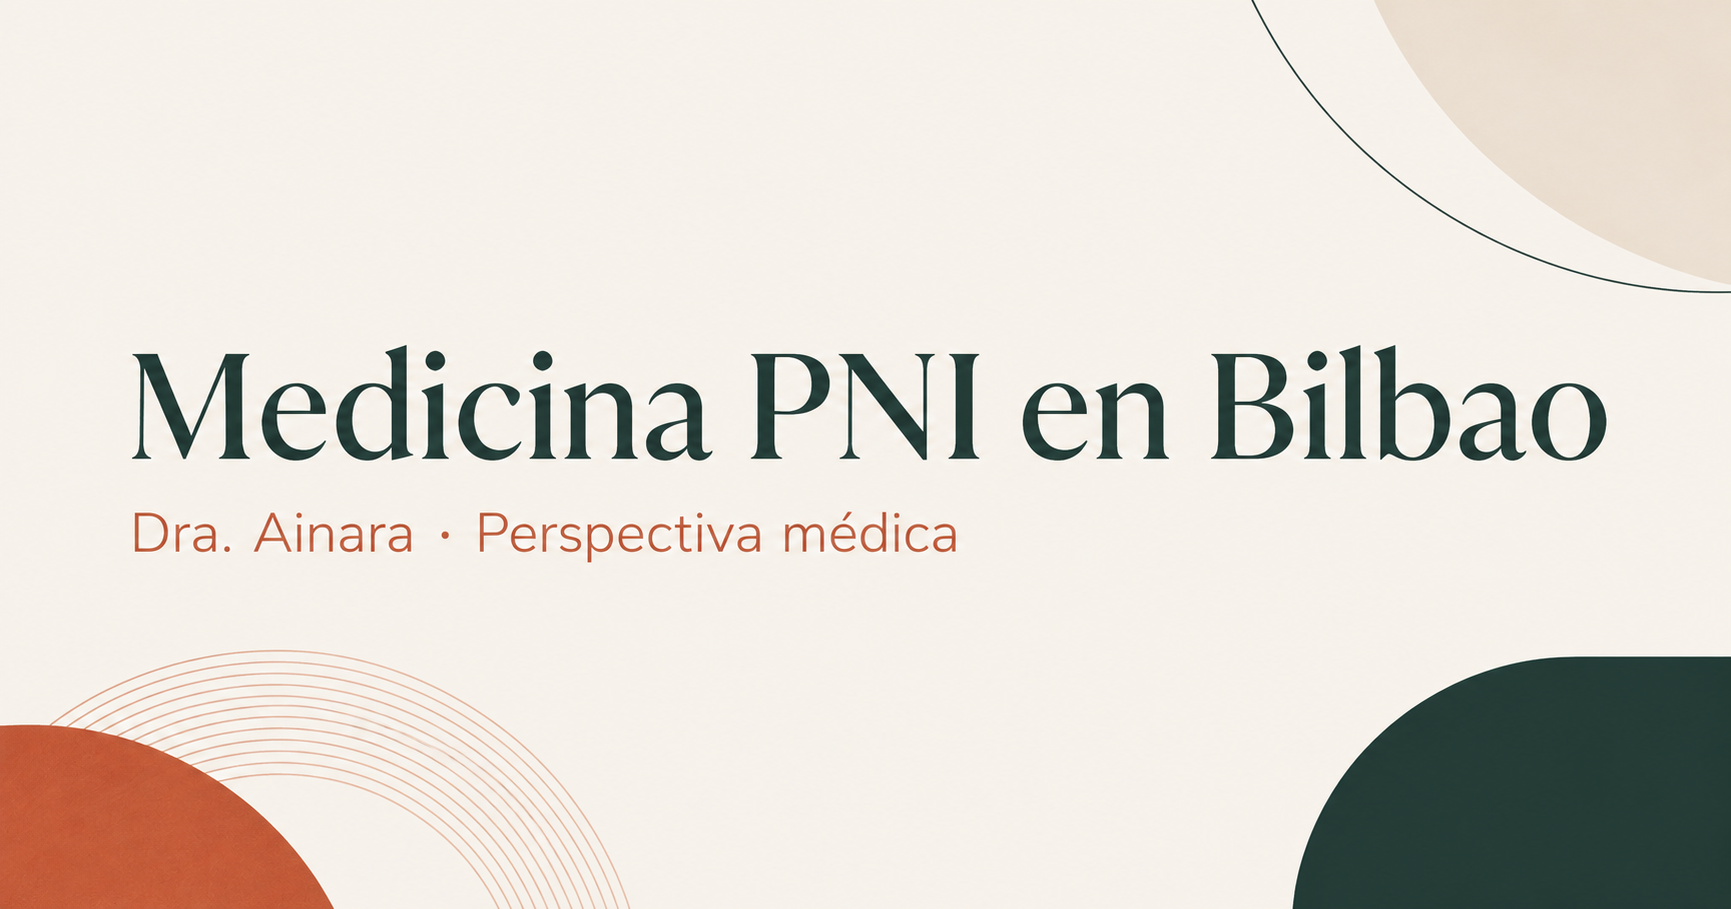
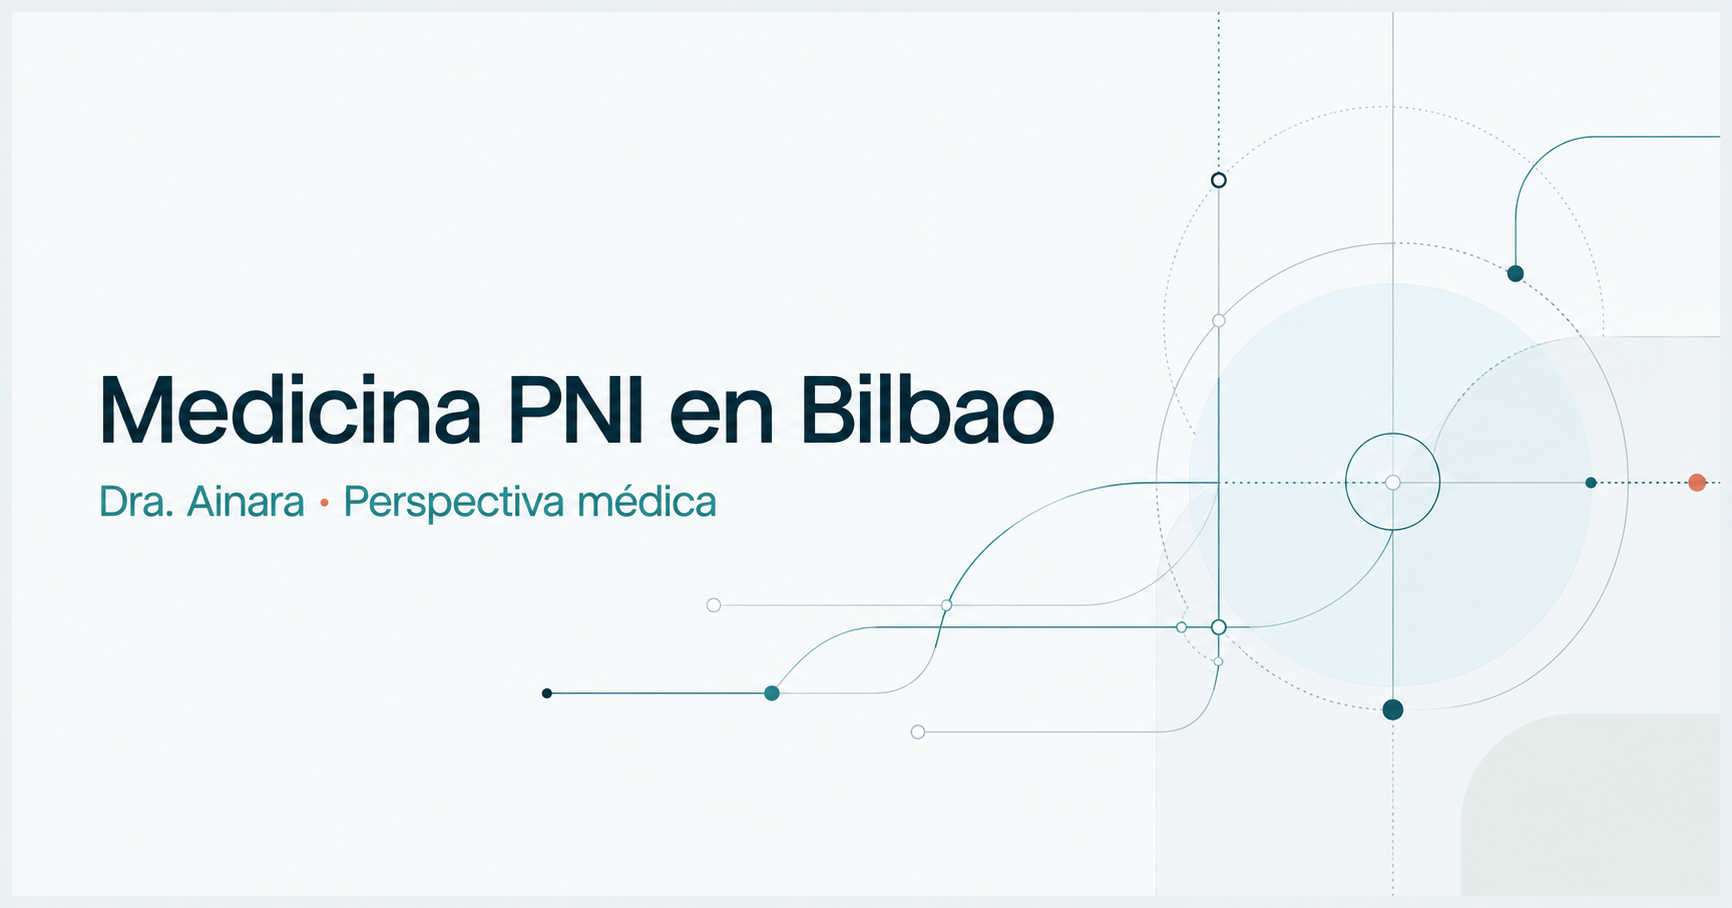
Refresh site with clinical visual identity

diff --git a/src/styles/global.css b/src/styles/global.css
@@ -1,8 +1,20 @@
-@import url('https://fonts.googleapis.com/css2?family=DM+Sans:wght@400;500;600&family=Newsreader:opsz,wght@6..72,400;6..72,500&display=swap');
-:root{--ink:#18342f;--ink-soft:#52635e;--paper:#f4f1eb;--white:#fff;--accent:#b95f46;--line:#d8d6ce;--mint:#dce8df;--max:1180px;--serif:"Newsreader",Georgia,serif;--sans:"DM Sans",Arial,sans-serif}
+@import url('https://fonts.googleapis.com/css2?family=Inter:wght@400;500;600&family=Manrope:wght@500;600;700&display=swap');
+:root{--ink:#183039;--ink-soft:#526971;--paper:#f8fafa;--white:#fff;--accent:#c96f5b;--line:#ccdcdf;--mint:#e7f1f3;--petrol:#153b4a;--teal:#28737a;--sage:#dde8e4;--max:1180px;--serif:"Manrope",Arial,sans-serif;--sans:"Inter",Arial,sans-serif}
 *{box-sizing:border-box}html{scroll-behavior:smooth}body{margin:0;background:var(--paper);color:var(--ink);font-family:var(--sans);font-size:16px;line-height:1.65}a{color:inherit}button{font:inherit}.container{width:min(calc(100% - 40px),var(--max));margin-inline:auto}.skip-link{position:fixed;top:10px;left:10px;z-index:1000;transform:translateY(-180%);background:var(--ink);color:#fff;padding:10px 16px}.skip-link:focus{transform:none}.site-header{position:relative;z-index:20;border-bottom:1px solid rgba(24,52,47,.12)}.nav-shell{height:84px;display:flex;align-items:center;justify-content:space-between;gap:32px}.brand{text-decoration:none;display:flex;flex-direction:column;line-height:1}.brand span{font:500 25px/1 var(--serif)}.brand small{font-size:9px;letter-spacing:.2em;text-transform:uppercase;margin-top:7px}.nav-shell nav{display:flex;gap:32px}.nav-shell nav a,.site-footer nav a{text-decoration:none;font-size:14px}.nav-shell nav a:hover{text-decoration:underline;text-underline-offset:5px}.button{border:1px solid var(--ink);background:var(--ink);color:#fff;padding:14px 22px;border-radius:2px;font-weight:600;cursor:pointer;transition:.2s}.button:hover{background:#274d45}.button:focus-visible,a:focus-visible,summary:focus-visible{outline:3px solid var(--accent);outline-offset:3px}.button-small{padding:10px 18px;font-size:14px}.hero{padding:70px 0 76px}.hero-grid{display:grid;grid-template-columns:minmax(0,1.25fr) minmax(320px,.75fr);gap:80px;align-items:center}.eyebrow{text-transform:uppercase;letter-spacing:.18em;font-size:12px;font-weight:600;color:var(--accent);margin:0 0 18px}.hero h1{font:500 clamp(55px,7.2vw,102px)/.92 var(--serif);letter-spacing:-.04em;margin:0;max-width:800px}.hero-lead{font:400 clamp(23px,2.6vw,36px)/1.18 var(--serif);max-width:650px;margin:28px 0 20px}.hero-body{color:var(--ink-soft);max-width:650px}.credentials{display:flex;border-block:1px solid var(--line);margin:34px 0 28px}.credentials>div{padding:17px 24px 17px 0;min-width:0}.credentials>div+div{padding-left:24px;border-left:1px solid var(--line)}.credentials strong,.credentials span{display:block}.credentials strong{font-size:14px}.credentials span{font-size:12px;color:var(--ink-soft)}.button-row{display:flex;align-items:center;gap:25px}.text-link{font-weight:600;font-size:14px;text-decoration:none;border-bottom:1px solid}.location-note{font-size:13px;color:var(--ink-soft);margin:20px 0 0}.location-note span{font-size:8px;color:var(--accent);margin-right:8px}.portrait-placeholder{height:570px;background:var(--mint);position:relative;display:flex;align-items:center;justify-content:center;overflow:hidden}.portrait-placeholder:before,.portrait-placeholder:after{content:"";position:absolute;border:1px solid rgba(24,52,47,.25);border-radius:50%}.portrait-placeholder:before{width:420px;height:420px;top:70px;left:50px}.portrait-placeholder:after{width:260px;height:260px;top:150px;left:130px}.portrait-monogram{font:400 170px/1 var(--serif);opacity:.2}.portrait-placeholder p{position:absolute;bottom:26px;left:28px;text-transform:uppercase;letter-spacing:.14em;font-size:10px}.trust-strip{background:var(--ink);color:#fff;padding:35px 0}.trust-grid{display:grid;grid-template-columns:repeat(3,1fr)}.trust-grid article{position:relative;padding:0 40px}.trust-grid article:first-child{padding-left:0}.trust-grid article+article{border-left:1px solid rgba(255,255,255,.2)}.trust-grid article>span{color:#dba392;font-size:11px}.trust-grid h2{font:500 22px/1.2 var(--serif);margin:4px 0 8px}.trust-grid p{color:#c5d0cd;margin:0;font-size:13px}.section{padding:110px 0}.narrow{max-width:820px}.section h2{font:500 clamp(42px,5vw,70px)/1 var(--serif);letter-spacing:-.025em;margin:0 0 26px}.large-copy{font:400 26px/1.35 var(--serif);color:var(--accent)}.site-footer{background:#e8e4dc;border-top:1px solid var(--line);padding:60px 0 25px}.footer-grid{display:flex;justify-content:space-between;gap:50px}.footer-grid p{color:var(--ink-soft);font-size:14px}.site-footer nav{display:flex;flex-direction:column;gap:8px}.footer-bottom{border-top:1px solid var(--line);margin-top:40px;padding-top:20px;display:flex;justify-content:space-between;color:var(--ink-soft);font-size:11px}
 @media(max-width:800px){.container{width:min(calc(100% - 28px),var(--max))}.nav-shell{height:70px}.nav-shell nav{display:none}.button-small{padding:9px 12px}.hero{padding:42px 0 50px}.hero-grid{grid-template-columns:1fr;gap:40px}.hero h1{font-size:57px}.hero-lead{font-size:26px}.credentials{display:grid;grid-template-columns:1fr 1fr}.credentials>div{padding:14px 12px 14px 0}.credentials>div+div{padding-left:12px}.credentials>div:last-child{grid-column:1/-1;border-left:0;border-top:1px solid var(--line);padding-left:0}.button-row{align-items:flex-start;flex-direction:column;gap:18px}.portrait-placeholder{height:390px}.portrait-placeholder:before{width:310px;height:310px;left:calc(50% - 155px);top:35px}.portrait-placeholder:after{width:200px;height:200px;left:calc(50% - 100px);top:90px}.trust-grid{grid-template-columns:1fr}.trust-grid article,.trust-grid article:first-child{padding:22px 0}.trust-grid article+article{border-left:0;border-top:1px solid rgba(255,255,255,.2)}.section{padding:75px 0}.footer-grid,.footer-bottom{flex-direction:column;gap:20px}}
 @media(prefers-reduced-motion:reduce){html{scroll-behavior:auto}*{transition:none!important}}
 
 .split-section{display:grid;grid-template-columns:.9fr 1.1fr;gap:100px;align-items:start}.split-section h2,.statement h2,.faq h2{font:500 clamp(42px,5vw,70px)/1 var(--serif);letter-spacing:-.025em;margin:0 0 28px}.section-tint{background:#e7ece6}.arrow-link{display:inline-block;margin-top:18px;font-weight:600;text-decoration:none;border-bottom:1px solid;padding-bottom:2px}.section-intro{max-width:700px;color:var(--ink-soft);font-size:18px;margin-bottom:48px}.process-grid{list-style:none;counter-reset:steps;display:grid;grid-template-columns:repeat(3,1fr);padding:0;margin:0;border-top:1px solid var(--line)}.process-grid li{counter-increment:steps;padding:30px 30px 30px 0;min-height:190px;border-bottom:1px solid var(--line)}.process-grid li:not(:nth-child(3n+1)){border-left:1px solid var(--line);padding-left:30px}.process-grid li:before{content:"0" counter(steps);display:block;color:var(--accent);font-size:11px;margin-bottom:18px}.process-grid h3{font:500 23px/1.2 var(--serif);margin:0 0 12px}.process-grid p{font-size:14px;color:var(--ink-soft);margin:0}.doctor-section{padding:110px 0;background:var(--ink);color:#fff}.doctor-grid{display:grid;grid-template-columns:.8fr 1.2fr;gap:100px;align-items:center}.doctor-grid h2{font:500 clamp(48px,6vw,82px)/1 var(--serif);margin:0 0 18px}.doctor-grid p:not(.eyebrow):not(.large-copy){color:#cbd5d2}.doctor-placeholder{aspect-ratio:4/5;background:#d9e3dd;display:grid;place-items:center;color:var(--ink)}.doctor-placeholder span{font:400 170px/1 var(--serif);opacity:.18}.doctor-section .arrow-link{color:#fff}.statement{max-width:820px}.statement>p:not(.eyebrow){font-size:19px;color:var(--ink-soft)}.location-section{padding:100px 0;background:#ddd4c7}.location-grid{display:grid;grid-template-columns:1fr 1fr;gap:80px;align-items:center}.location-grid h2{font:500 clamp(46px,5vw,72px)/1 var(--serif);margin:0 0 25px}.bilbao-mark{height:280px;border:1px solid rgba(24,52,47,.3);display:flex;flex-direction:column;align-items:center;justify-content:center;font:500 clamp(48px,7vw,90px)/1 var(--serif);letter-spacing:.08em}.bilbao-mark span{font:500 10px/1 var(--sans);letter-spacing:.18em;margin-top:18px}.faq{max-width:900px}.faq-list{margin-top:45px;border-top:1px solid var(--line)}details{border-bottom:1px solid var(--line)}summary{cursor:pointer;list-style:none;font:500 21px/1.3 var(--serif);padding:24px 45px 24px 0;position:relative}summary::-webkit-details-marker{display:none}summary:after{content:"+";position:absolute;right:8px;font-family:var(--sans)}details[open] summary:after{content:"−"}.faq-list details p{max-width:720px;color:var(--ink-soft);margin:0;padding:0 40px 25px 0}.final-cta{text-align:center;background:var(--accent);color:#fff;padding:95px 0}.final-cta .eyebrow{color:#fff}.final-cta h2{font:500 clamp(50px,7vw,88px)/1 var(--serif);margin:0 0 18px}.final-cta p{font-size:18px}.final-cta small{display:block;margin-top:18px}.button-light{background:#fff;color:var(--ink);border-color:#fff}.button-light:hover{background:var(--paper)}.home-hero{padding:100px 0 120px;min-height:75vh;display:flex;align-items:center}.home-hero h1{font:500 clamp(78px,12vw,170px)/.9 var(--serif);letter-spacing:-.055em;margin:0}.home-hero>div>p:not(.eyebrow){font:400 clamp(24px,3vw,38px)/1.2 var(--serif);max-width:700px}.home-hero .credentials{max-width:700px}.text-button{border:0;background:transparent;color:var(--ink);font-weight:600;cursor:pointer;padding:14px 0}.inner-hero{padding:105px 0;background:#e7ece6}.inner-hero h1{font:500 clamp(62px,9vw,120px)/.92 var(--serif);letter-spacing:-.045em;margin:0}.inner-lead{font:400 clamp(24px,3vw,38px)/1.25 var(--serif);max-width:730px;margin:30px 0 0}.content-grid{display:grid;grid-template-columns:.7fr 1.3fr;gap:100px}.content-grid .credentials{display:grid;margin:0}.content-grid .credentials>div+div{border-left:0;border-top:1px solid var(--line);padding-left:0}.content-grid article h2,.reading h2,.empty-state h2{font:500 clamp(36px,4vw,58px)/1.05 var(--serif);margin:0 0 25px}.content-grid article>p,.reading p,.reading li{font-size:18px;color:var(--ink-soft)}blockquote{font:400 30px/1.3 var(--serif);border-left:3px solid var(--accent);padding-left:25px;margin:40px 0}.reading{max-width:800px}.reading h2:not(:first-child){margin-top:65px}.reading ul{padding-left:22px;margin-bottom:40px}.process-feature{display:grid;grid-template-columns:repeat(3,1fr)}.process-feature>div{padding:0 35px}.process-feature>div:first-child{padding-left:0}.process-feature>div+div{border-left:1px solid var(--line)}.process-feature span{font-size:11px;color:var(--accent)}.process-feature h2{font:500 34px/1.1 var(--serif)}.process-feature p{color:var(--ink-soft)}.empty-state{max-width:750px;text-align:center}.booking-dialog{width:min(680px,calc(100% - 24px));max-height:calc(100vh - 24px);padding:0;border:0;background:var(--paper);color:var(--ink);box-shadow:0 25px 80px rgba(0,0,0,.25)}.booking-dialog::backdrop{background:rgba(10,30,27,.75)}.booking-head{display:flex;justify-content:space-between;align-items:flex-start;padding:28px 32px 22px;border-bottom:1px solid var(--line)}.booking-head .eyebrow{margin-bottom:5px}.booking-head h2{font:500 36px/1 var(--serif);margin:0}.icon-button{border:0;background:transparent;color:var(--ink);font-size:32px;line-height:1;cursor:pointer}.demo-notice{margin:24px 32px 0;padding:12px 15px;background:#f1dfd8;font-size:13px}.demo-notice strong{margin-right:8px}.booking-form{padding:20px 32px 32px}.booking-form fieldset{border:0;padding:0;margin:0 0 24px}.booking-form legend{font-weight:600}.field-help{font-size:13px;color:var(--ink-soft);margin:3px 0 12px}.date-options,.slot-options{display:grid;gap:10px}.date-options{grid-template-columns:repeat(3,1fr)}.slot-options{grid-template-columns:repeat(4,1fr)}.date-options input,.slot-options input{position:absolute;opacity:0}.date-options span,.slot-options span{display:flex;border:1px solid var(--line);cursor:pointer;align-items:center;justify-content:center}.date-options span{min-height:105px;flex-direction:column}.date-options small{font-size:10px;letter-spacing:.1em}.date-options strong{font:500 32px/1.2 var(--serif)}.date-options em{font-size:11px;font-style:normal}.slot-options span{height:48px}.date-options input:checked+span,.slot-options input:checked+span{border:2px solid var(--ink);background:var(--mint)}.date-options input:focus-visible+span,.slot-options input:focus-visible+span{outline:3px solid var(--accent);outline-offset:2px}.booking-continue{width:100%}.booking-continue:disabled{opacity:.45;cursor:not-allowed}.booking-result{padding:45px 32px 50px;text-align:center}.booking-result h3{font:500 38px/1.1 var(--serif);margin:0 0 15px}.mobile-booking{display:none;position:fixed;z-index:18;bottom:12px;left:14px;right:14px;width:calc(100% - 28px);border:0;background:var(--ink);color:#fff;padding:14px;font-weight:600;box-shadow:0 8px 25px rgba(0,0,0,.2)}
 @media(max-width:800px){.split-section,.doctor-grid,.location-grid,.content-grid{grid-template-columns:1fr;gap:35px}.process-grid{grid-template-columns:1fr}.process-grid li,.process-grid li:not(:nth-child(3n+1)){border-left:0;padding:25px 0;min-height:0}.doctor-section,.location-section{padding:75px 0}.doctor-placeholder{max-height:430px}.bilbao-mark{height:200px}.process-feature{grid-template-columns:1fr}.process-feature>div,.process-feature>div:first-child{padding:25px 0}.process-feature>div+div{border-left:0;border-top:1px solid var(--line)}.home-hero{padding:80px 0;min-height:auto}.home-hero h1{font-size:76px}.inner-hero{padding:70px 0}.content-grid aside{order:2}.booking-head,.booking-form{padding-left:20px;padding-right:20px}.demo-notice{margin-left:20px;margin-right:20px}.slot-options{grid-template-columns:1fr 1fr}.mobile-booking.is-visible{display:block}.site-footer{padding-bottom:85px}}
+
+/* Identidad clínica: estructura clara, tipografía sans y color contenido. */
+body{letter-spacing:-.005em;background:var(--paper)}
+.site-header{background:rgba(248,250,250,.94);backdrop-filter:blur(12px);border-color:var(--line)}
+.brand span{font:700 23px/1 var(--serif);letter-spacing:-.035em}.brand small{color:var(--teal);font-weight:600;letter-spacing:.14em}
+.nav-shell nav a{font-weight:500;color:#35535d}.button{background:var(--petrol);border-color:var(--petrol);border-radius:7px}.button:hover{background:var(--teal);border-color:var(--teal)}
+.hero{background:linear-gradient(135deg,#f8fafa 0%,#f8fafa 62%,#eef5f4 100%);padding-top:82px}.hero-grid{gap:72px}.eyebrow{color:var(--teal);letter-spacing:.13em;font-weight:700}.hero h1{font:700 clamp(52px,6.4vw,88px)/.98 var(--serif);letter-spacing:-.06em;max-width:760px}.hero-lead{font:600 clamp(22px,2.35vw,32px)/1.25 var(--serif);letter-spacing:-.035em;color:var(--petrol)}.hero-body{font-size:17px;max-width:630px}.credentials{border-color:var(--line)}.credentials strong{font-family:var(--serif);font-weight:700;color:var(--petrol)}.credentials span{margin-top:3px}.location-note span{color:var(--teal)}
+.portrait-placeholder{height:545px;background:linear-gradient(150deg,var(--sage),var(--mint));border-radius:0 52px 0 52px;border:1px solid #c8dcda}.portrait-placeholder:before{width:76%;height:1px;border:0;border-top:1px solid rgba(40,115,122,.32);border-radius:0;top:33%;left:12%;box-shadow:0 92px 0 rgba(40,115,122,.2),0 184px 0 rgba(40,115,122,.12)}.portrait-placeholder:after{width:1px;height:76%;border:0;border-left:1px solid rgba(40,115,122,.25);border-radius:0;top:12%;left:50%;box-shadow:76px 0 0 rgba(40,115,122,.13),-76px 0 0 rgba(40,115,122,.13)}.portrait-monogram{font:700 120px/1 var(--serif);color:var(--petrol);opacity:.12}.portrait-placeholder p{color:var(--petrol);font-weight:700;letter-spacing:.12em}
+.trust-strip{background:var(--petrol)}.trust-grid article>span{color:#8fc5c5}.trust-grid h2{font:700 20px/1.25 var(--serif);letter-spacing:-.025em}.trust-grid p{color:#c7dadd}.section h2,.split-section h2,.statement h2,.faq h2{font-weight:700;line-height:1.08;letter-spacing:-.045em}.large-copy{font:600 25px/1.42 var(--serif);color:var(--teal);letter-spacing:-.025em}.section-tint{background:var(--mint)}.arrow-link{color:var(--teal);border-color:var(--teal)}
+.process-grid h3{font:700 20px/1.25 var(--serif);letter-spacing:-.025em}.process-grid li:before{color:var(--teal);font-weight:700}.doctor-section{background:var(--petrol)}.doctor-grid h2{font-weight:700;letter-spacing:-.05em}.doctor-placeholder{background:linear-gradient(145deg,#c6dcda,#edf4f3);border-radius:42px 0}.doctor-placeholder span{font-weight:700;color:var(--petrol);opacity:.12}.location-section{background:var(--sage)}.location-grid h2{font-weight:700;letter-spacing:-.045em}.bilbao-mark{border-color:#a9c4c2;color:var(--petrol);font-weight:700;background:rgba(255,255,255,.28);border-radius:18px}.faq-list summary{font:700 19px/1.4 var(--serif);letter-spacing:-.02em}.final-cta{background:var(--teal)}.final-cta h2{font-weight:700;letter-spacing:-.05em}.final-cta .button-light{color:var(--petrol)}
+.home-hero{background:linear-gradient(135deg,var(--paper) 0%,var(--paper) 65%,var(--mint) 100%)}.home-hero h1{font-weight:700;letter-spacing:-.065em;color:var(--petrol)}.home-hero>div>p:not(.eyebrow){font-weight:600;letter-spacing:-.035em}.inner-hero{background:linear-gradient(125deg,var(--mint),#f2f7f6)}.inner-hero h1{font-weight:700;letter-spacing:-.06em;color:var(--petrol)}.inner-lead{font-weight:600;letter-spacing:-.035em}.content-grid article h2,.reading h2,.empty-state h2{font-weight:700;letter-spacing:-.045em}.process-feature h2{font-weight:700;letter-spacing:-.035em}.booking-dialog{border-radius:16px;background:var(--paper)}.booking-head h2,.booking-result h3{font-weight:700;letter-spacing:-.04em}.demo-notice{background:#f8e9e5;border-radius:7px}.date-options span,.slot-options span{border-radius:7px}.date-options input:checked+span,.slot-options input:checked+span{border-color:var(--teal);background:var(--mint)}.mobile-booking{background:var(--petrol);border-radius:8px}
+@media(max-width:800px){.hero h1{font-size:53px}.hero{padding-top:50px}.portrait-placeholder{height:380px;border-radius:0 34px}.home-hero h1{font-size:70px}}
